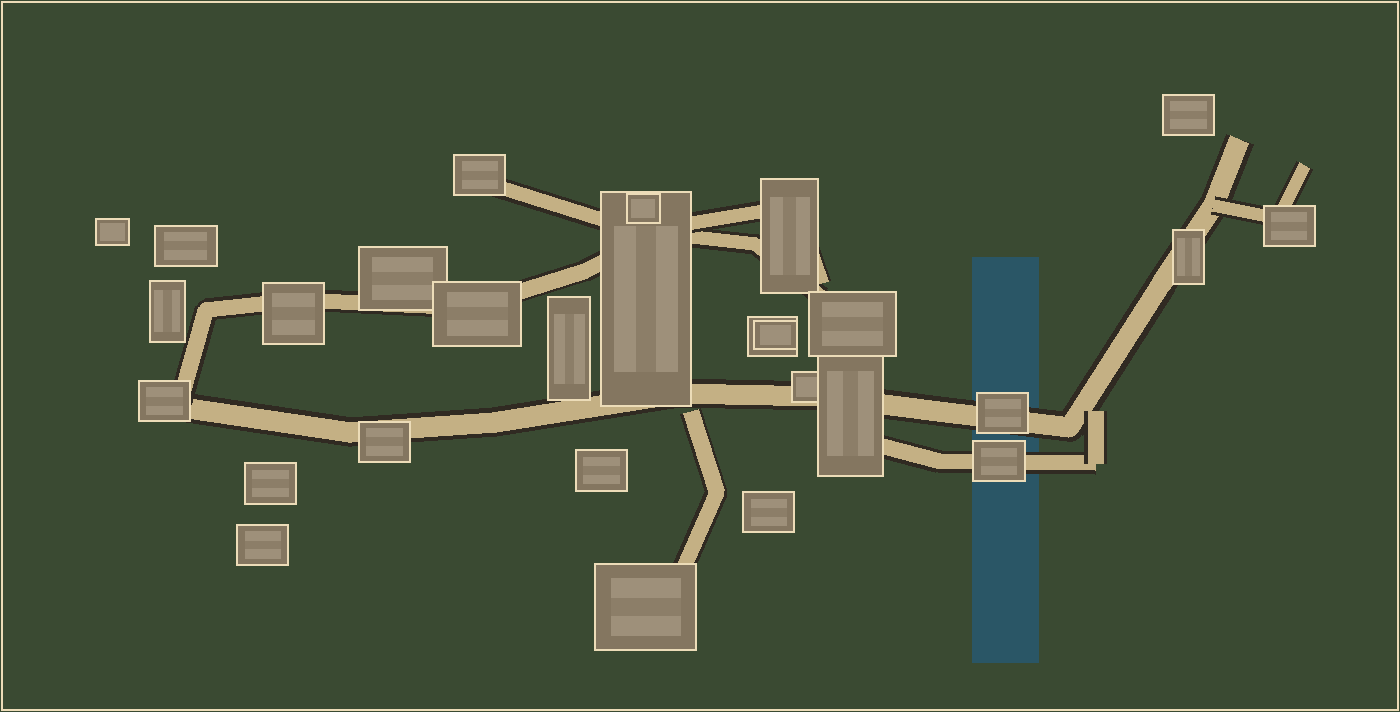
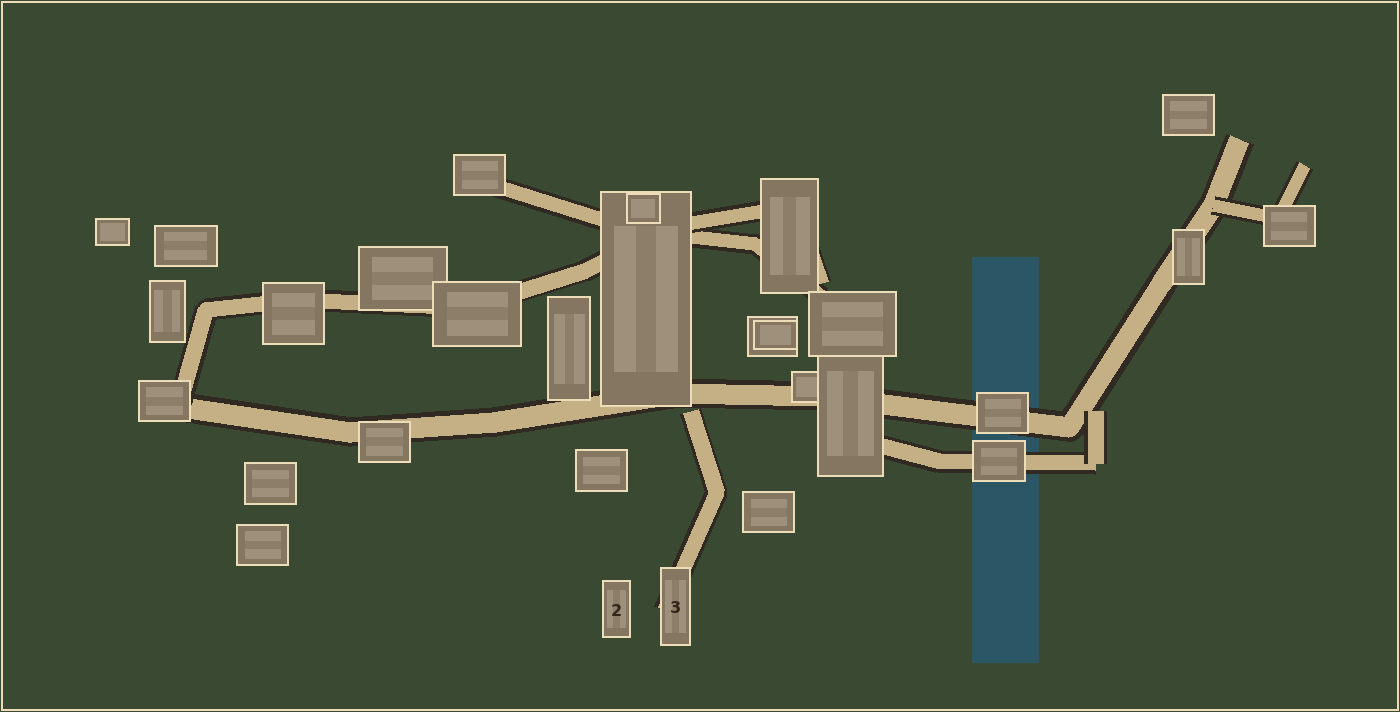
Split the Customs dorms into the two-story and three-story buildings.
The published footprint is one yard. On the compass frame the three-story block is the eastern one and the two-story block is the western one, with the courtyard between them.

Changed region(s): [[0.3993, 0.7725, 0.5221, 0.927]]

diff --git a/TarkovOverlay/Maps/render_underlays.py b/TarkovOverlay/Maps/render_underlays.py
@@ -453,7 +453,24 @@ def render(spec: dict, path: Path) -> tuple[int, int]:
                 draw.polygon(corridor, fill=lighten(fill, 8))
         draw.line(ring + [ring[0]], fill=palette[6], width=max(1, round(ppm * 1.4)))
 
+    # The published dorms footprint is one yard around both buildings.
+    # On this compass frame the three-story block is the eastern one (lower X)
+    # and the two-story block is the western one, with the courtyard between them.
+    if spec["id"] == "customs":
+        draw_block(170, 128, 193, 186, palette[5])
+        draw_block(216, 138, 237, 180, palette[5])
+        try:
+            from PIL import ImageFont
+            mark = ImageFont.truetype("/usr/share/fonts/truetype/dejavu/DejaVuSans-Bold.ttf", 16)
+            for mx, mz, glyph in ((181.5, 157, "3"), (226.5, 159, "2")):
+                px, py = pix(mx, mz)
+                draw.text((px - 5, py - 8), glyph, fill=(48, 38, 28), font=mark)
+        except OSError:
+            pass
+
     for area in spec["areas"]:
+        if str(area["name"]).lower() == "dorms":
+            continue
         if str(area["name"]).lower() == "mall":
             plate = lighten(palette[0], 18)
             ring = [
@@ -494,6 +511,13 @@ def render(spec: dict, path: Path) -> tuple[int, int]:
     return width, height
 
 
+def customs_dorm_labels(labels: list[dict]) -> list[dict]:
+    kept = [label for label in labels if label["text"] != "Dorms"]
+    kept.append({"x": 181.5, "z": 157.0, "text": "3-story dorms", "priority": 160})
+    kept.append({"x": 226.5, "z": 159.0, "text": "2-story dorms", "priority": 160})
+    return kept
+
+
 def build(doc: list) -> list[dict]:
     source = interactive_maps(doc)
     specs = []
@@ -519,7 +543,7 @@ def build(doc: list) -> list[dict]:
             "publishedBounds": bounds,
             "bounds": {"x0": bounds[0][0], "z0": bounds[0][1], "x1": bounds[1][0], "z1": bounds[1][1]},
             "aliases": sorted(alias),
-            "labels": collect_labels(inter),
+            "labels": customs_dorm_labels(collect_labels(inter)) if map_id == "customs" else collect_labels(inter),
             "areas": collect_areas(inter),
             "floors": collect_floors(inter),
             "roads": [*ROADS.get(map_id, []), *street_roads(inter, inter["coordinateRotation"])],

diff --git a/TarkovOverlay.Tests/MapUnderlayTests.cs b/TarkovOverlay.Tests/MapUnderlayTests.cs
@@ -81,7 +81,7 @@ public class MapUnderlayTests
     {
         var customs = Load().Single(m => m.Id == "customs");
         var bigRed = Uv(customs, Label(customs, "Big Red"));
-        var dorms = Uv(customs, Label(customs, "Dorms"));
+        var dorms = Uv(customs, Label(customs, "3-story dorms"));
         var trailer = Uv(customs, Label(customs, "Trailer Park"));
         Assert.True(bigRed.U > dorms.U);
         Assert.True(dorms.V > trailer.V);
